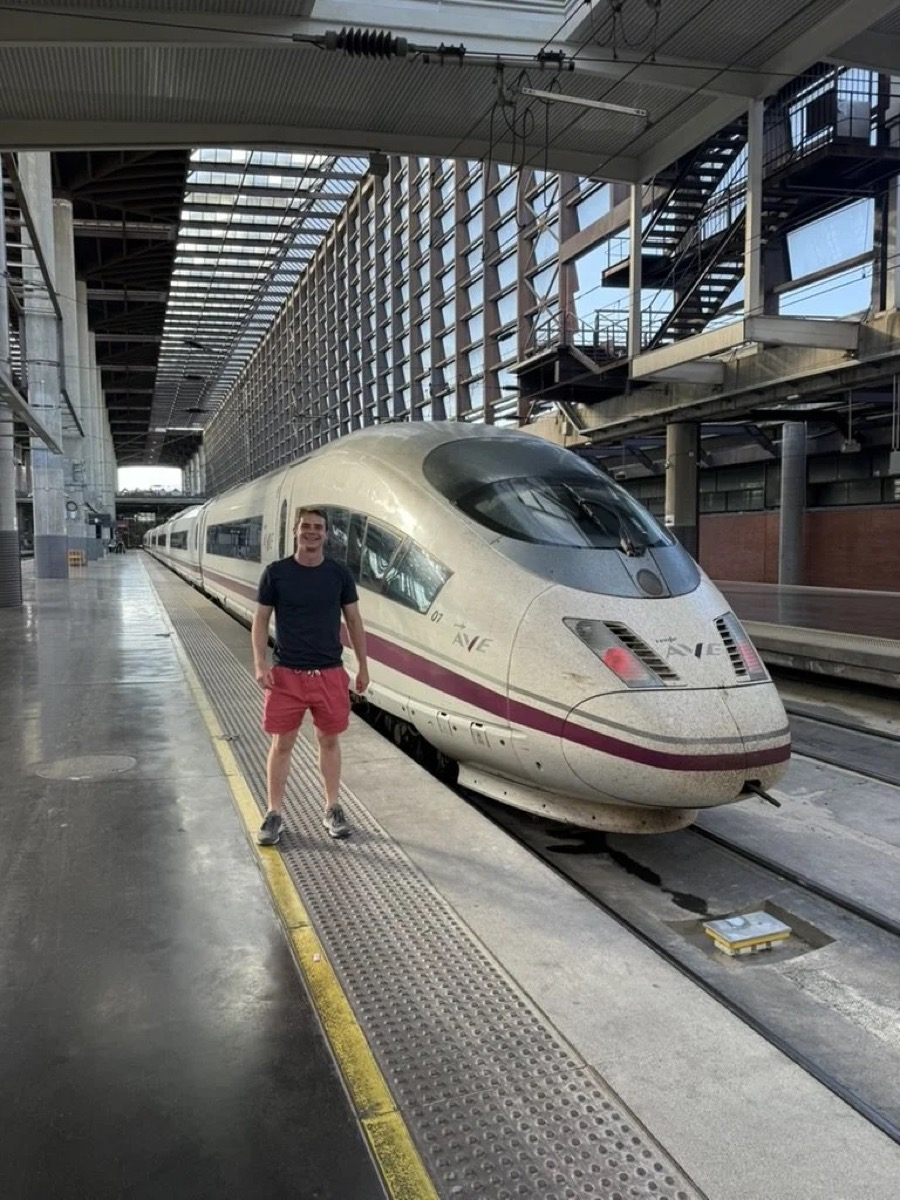
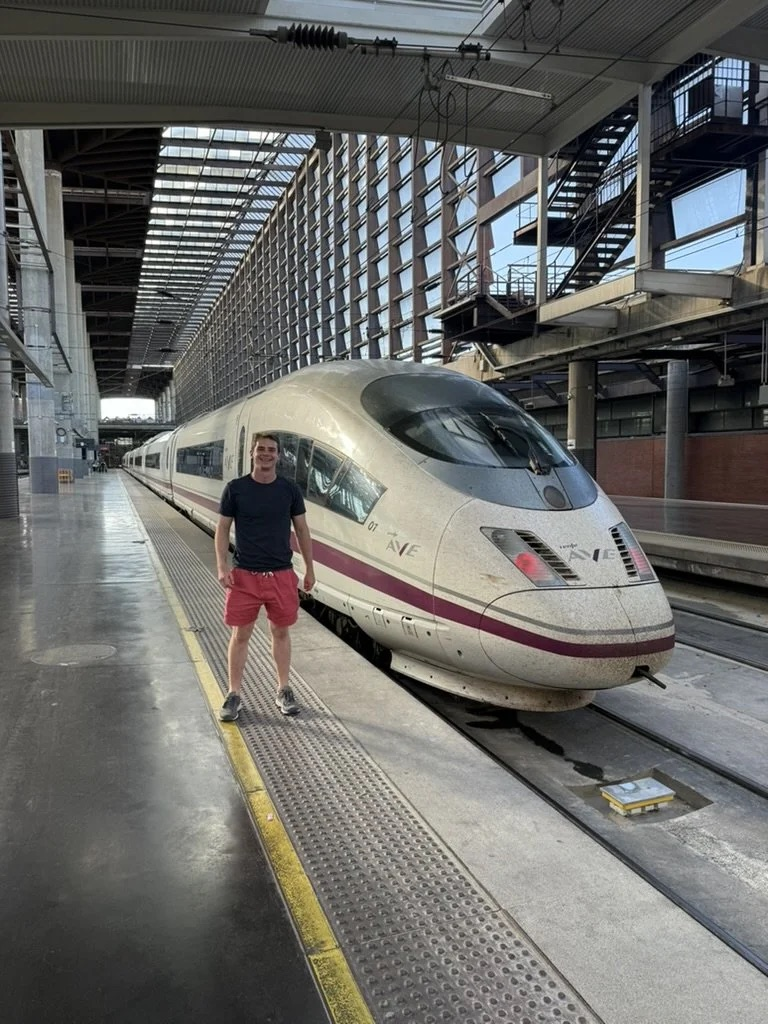
Stop enlarging pictures past their own pixels
An audit of every image against the width it actually renders at turned up
seven being stretched beyond their source. The worst were the three Amtrak
schedule screenshots in the Day Trips entry — 266px wide, blown up to the
528px column at nearly 2x, which is why their type looked smeared. Also
Jacksonville's 298px corridor close-up at 1.77x, and three others just over.

Article images now take `width: auto; max-width: 100%` and centre
themselves. Anything wider than the column still fills it; anything smaller
sits at its true size instead of being inflated. Nothing on the site is
upscaled now.

The Lyon pair was a second problem: halving the reading measure showed those
two ~359px screenshots at 256px, half the size of every other picture in
the article. The pair now steps outside the measure to 46rem so each sits at
its own size. Verified no horizontal overflow at 1280, 900 and 375.

Madrid goes back to its true 768x1024 rather than the 900x1200 I had
upscaled it to during the migration — Squarespace caps that photo at 768
however it is asked, so the extra pixels were invented. It still covers the
256px square frame three times over. A sharper one needs the original off
Hunter's phone.

Also removes .entry__photos, which no markup has used for some time.

diff --git a/assets/style.css b/assets/style.css
@@ -430,21 +430,34 @@ a:hover { color: var(--link-hover); border-bottom-color: var(--link-hover); }
 /* ---------- figures ---------- */
 
 .prose figure, .post__body figure { margin: 2rem 0; }
+/* Never enlarge a picture past its own pixels. A lot of these came over from
+   Squarespace as narrow screenshots — the Amtrak schedules are 266px wide —
+   and stretching them to fill the column turned their type to mush. Anything
+   wider than the column still fills it; anything smaller sits at its true
+   size, centred. */
 .prose figure img, .post__body figure img,
 .prose > img, .post__body > img {
   display: block;
-  width: 100%;
+  width: auto;
+  max-width: 100%;
   height: auto;
+  margin-inline: auto;
   border-radius: 3px;
   background: var(--paper-2);
 }
-/* two images side by side, each captioned in its own right */
+/* Two images side by side, each captioned in its own right. Halving the
+   reading measure left these two ~359px screenshots at 256px, half the size
+   of every other picture in the article, so the pair steps outside the
+   measure far enough to show both at close to their true size. */
 .figure--pair {
   display: grid;
   grid-template-columns: repeat(2, minmax(0, 1fr));
   gap: 0.8rem 1rem;
   align-items: start;
   margin: 1.6rem 0;
+  width: min(46rem, calc(100vw - 3rem));
+  margin-left: 50%;
+  transform: translateX(-50%);
 }
 .figure--pair > figure { margin: 0; }
 @media (max-width: 34rem) { .figure--pair { grid-template-columns: 1fr; } }
@@ -522,24 +535,6 @@ a:hover { color: var(--link-hover); border-bottom-color: var(--link-hover); }
   margin: 1.9rem 0 0.7rem;
 }
 
-/* two portrait trip photos side by side; stacking them would make this
-   entry tower over the others in the section */
-.entry__photos {
-  display: grid;
-  grid-template-columns: repeat(2, minmax(0, 1fr));
-  gap: 1rem;
-  max-width: 24rem;
-  margin: 1.2rem 0 0.4rem;
-}
-.entry__photos figure { margin: 0; }
-.entry__photos img {
-  display: block;
-  width: 100%;
-  height: 100%;
-  aspect-ratio: 3 / 4;
-  object-fit: cover;
-  border-radius: 4px;
-}
 
 /* ---------- work samples ---------- */
 
@@ -748,7 +743,6 @@ a:hover { color: var(--link-hover); border-bottom-color: var(--link-hover); }
 }
 
 @media (max-width: 34rem) {
-  .entry__photos { grid-template-columns: 1fr; max-width: 17rem; }
   .orglist { grid-template-columns: repeat(2, minmax(0, 1fr)); gap: 1.3rem 1rem; }
   .orglist__mark { height: 5.4rem; padding: 0.75rem; }
 }

diff --git a/articles/france-spain-work-study.html b/articles/france-spain-work-study.html
@@ -5,7 +5,7 @@
 <meta name="viewport" content="width=device-width, initial-scale=1">
 <title>France &amp; Spain Work Study: Recap &mdash; Hunter Bickel</title>
 <meta name="description" content="A synthesis of two weeks across the French and Spanish networks  what the operating patterns, station rebuilds, and network geometry suggest for American practice.">
-<link rel="stylesheet" href="../assets/style.css?v=1a0ccea2">
+<link rel="stylesheet" href="../assets/style.css?v=5dd67c2f">
 <link rel="icon" type="image/png" sizes="32x32" href="../assets/icons/favicon-32.png">
 <link rel="icon" type="image/png" sizes="16x16" href="../assets/icons/favicon-16.png">
 <link rel="apple-touch-icon" sizes="180x180" href="../assets/icons/apple-touch-icon.png">

diff --git a/articles/lyon-part-dieu.html b/articles/lyon-part-dieu.html
@@ -5,7 +5,7 @@
 <meta name="viewport" content="width=device-width, initial-scale=1">
 <title>Lyon-Part-Dieu: An urban travel hub transformation &mdash; Hunter Bickel</title>
 <meta name="description" content="Paris isn’t the only French city that’s undergoing a massive transformation that’s centered around transport.">
-<link rel="stylesheet" href="../assets/style.css?v=1a0ccea2">
+<link rel="stylesheet" href="../assets/style.css?v=5dd67c2f">
 <link rel="icon" type="image/png" sizes="32x32" href="../assets/icons/favicon-32.png">
 <link rel="icon" type="image/png" sizes="16x16" href="../assets/icons/favicon-16.png">
 <link rel="apple-touch-icon" sizes="180x180" href="../assets/icons/apple-touch-icon.png">

diff --git a/articles/east-stl-hsr.html b/articles/east-stl-hsr.html
@@ -5,7 +5,7 @@
 <meta name="viewport" content="width=device-width, initial-scale=1">
 <title>East St. Louis and the Case for High-Speed Rail &mdash; Hunter Bickel</title>
 <meta name="description" content="Why the Mississippi crossing at East St. Louis matters more to a national high-speed network than its size suggests.">
-<link rel="stylesheet" href="../assets/style.css?v=1a0ccea2">
+<link rel="stylesheet" href="../assets/style.css?v=5dd67c2f">
 <link rel="icon" type="image/png" sizes="32x32" href="../assets/icons/favicon-32.png">
 <link rel="icon" type="image/png" sizes="16x16" href="../assets/icons/favicon-16.png">
 <link rel="apple-touch-icon" sizes="180x180" href="../assets/icons/apple-touch-icon.png">

diff --git a/articles/barcelona-la-sagrera.html b/articles/barcelona-la-sagrera.html
@@ -5,7 +5,7 @@
 <meta name="viewport" content="width=device-width, initial-scale=1">
 <title>Barcelona La Sagrera: A modern-day mega-station &mdash; Hunter Bickel</title>
 <meta name="description" content="The future of multi-modality and city-building is under construction in the Catalan capital.">
-<link rel="stylesheet" href="../assets/style.css?v=1a0ccea2">
+<link rel="stylesheet" href="../assets/style.css?v=5dd67c2f">
 <link rel="icon" type="image/png" sizes="32x32" href="../assets/icons/favicon-32.png">
 <link rel="icon" type="image/png" sizes="16x16" href="../assets/icons/favicon-16.png">
 <link rel="apple-touch-icon" sizes="180x180" href="../assets/icons/apple-touch-icon.png">

diff --git a/writing.html b/writing.html
@@ -5,7 +5,7 @@
 <meta name="viewport" content="width=device-width, initial-scale=1">
 <title>Research &amp; Writing — Hunter Bickel</title>
 <meta name="description" content="Articles, reports, and a running journal on rail and transit by Hunter Bickel.">
-<link rel="stylesheet" href="assets/style.css?v=1a0ccea2">
+<link rel="stylesheet" href="assets/style.css?v=5dd67c2f">
 <link rel="icon" type="image/png" sizes="32x32" href="assets/icons/favicon-32.png">
 <link rel="icon" type="image/png" sizes="16x16" href="assets/icons/favicon-16.png">
 <link rel="apple-touch-icon" sizes="180x180" href="assets/icons/apple-touch-icon.png">

diff --git a/work.html b/work.html
@@ -5,7 +5,7 @@
 <meta name="viewport" content="width=device-width, initial-scale=1">
 <title>Work &amp; Education — Hunter Bickel</title>
 <meta name="description" content="Hunter Bickel — professional experience, education, and other work.">
-<link rel="stylesheet" href="assets/style.css?v=1a0ccea2">
+<link rel="stylesheet" href="assets/style.css?v=5dd67c2f">
 <link rel="icon" type="image/png" sizes="32x32" href="assets/icons/favicon-32.png">
 <link rel="icon" type="image/png" sizes="16x16" href="assets/icons/favicon-16.png">
 <link rel="apple-touch-icon" sizes="180x180" href="assets/icons/apple-touch-icon.png">

diff --git a/index.html b/index.html
@@ -5,7 +5,7 @@
 <meta name="viewport" content="width=device-width, initial-scale=1">
 <title>Hunter Bickel</title>
 <meta name="description" content="Hunter Bickel — writing and research on rail, transit, and the way cities move.">
-<link rel="stylesheet" href="assets/style.css?v=1a0ccea2">
+<link rel="stylesheet" href="assets/style.css?v=5dd67c2f">
 <link rel="icon" type="image/png" sizes="32x32" href="assets/icons/favicon-32.png">
 <link rel="icon" type="image/png" sizes="16x16" href="assets/icons/favicon-16.png">
 <link rel="apple-touch-icon" sizes="180x180" href="assets/icons/apple-touch-icon.png">

diff --git a/admin.html b/admin.html
@@ -5,7 +5,7 @@
 <meta name="viewport" content="width=device-width, initial-scale=1">
 <meta name="robots" content="noindex, nofollow">
 <title>New Journal Entry — Hunter Bickel</title>
-<link rel="stylesheet" href="assets/style.css?v=1a0ccea2">
+<link rel="stylesheet" href="assets/style.css?v=5dd67c2f">
 <link rel="icon" type="image/png" sizes="32x32" href="assets/icons/favicon-32.png">
 <link rel="icon" type="image/png" sizes="16x16" href="assets/icons/favicon-16.png">
 <link rel="apple-touch-icon" sizes="180x180" href="assets/icons/apple-touch-icon.png">
